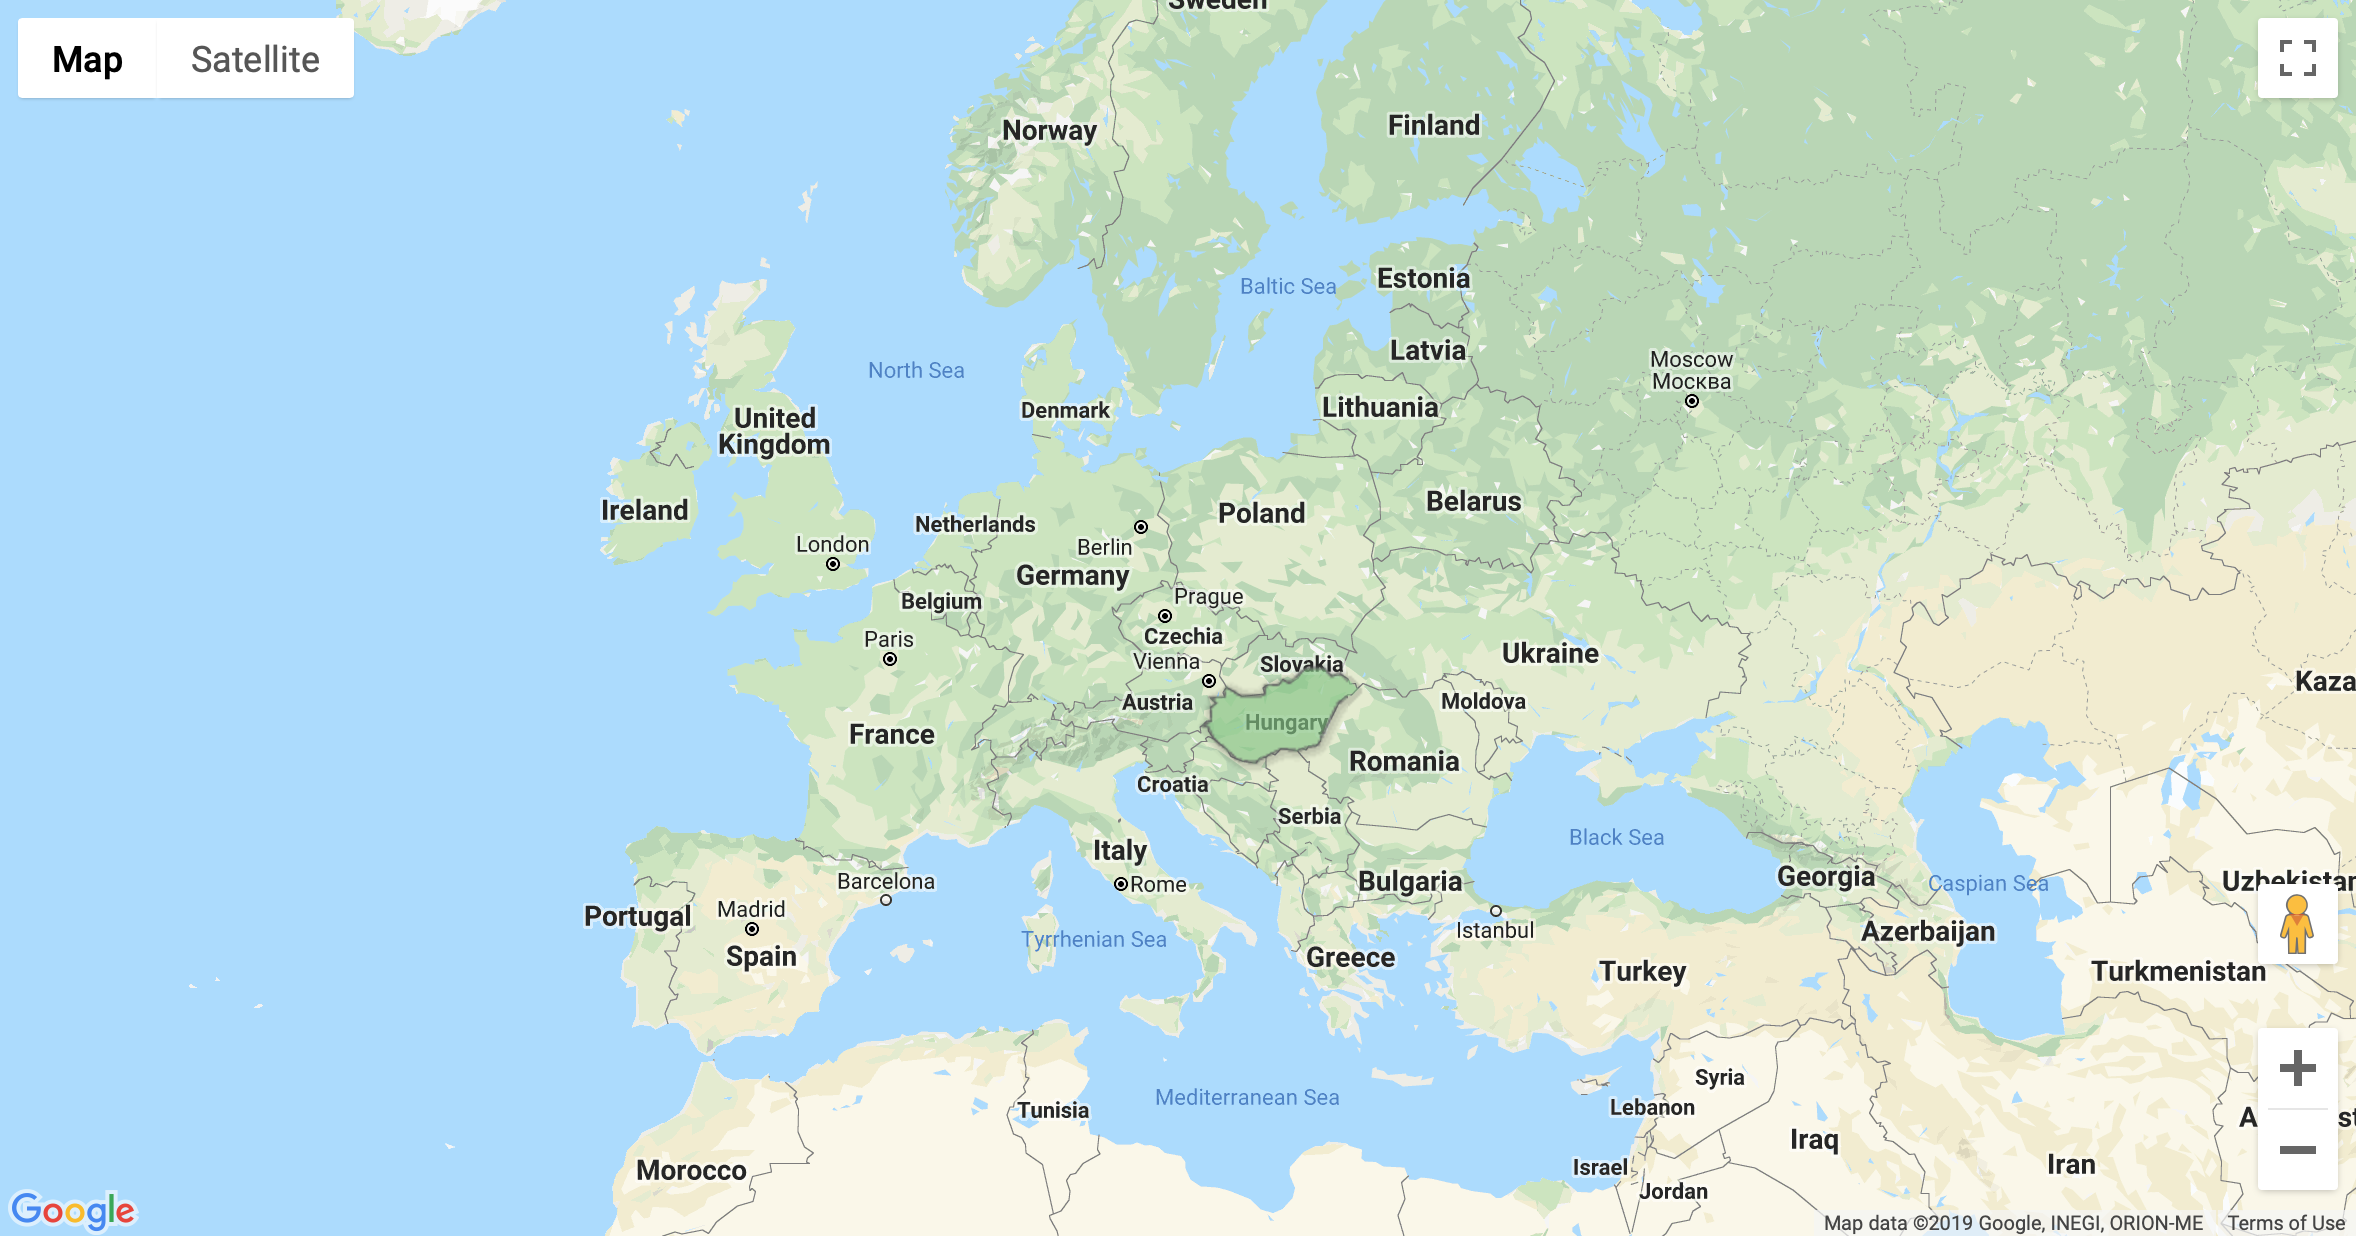
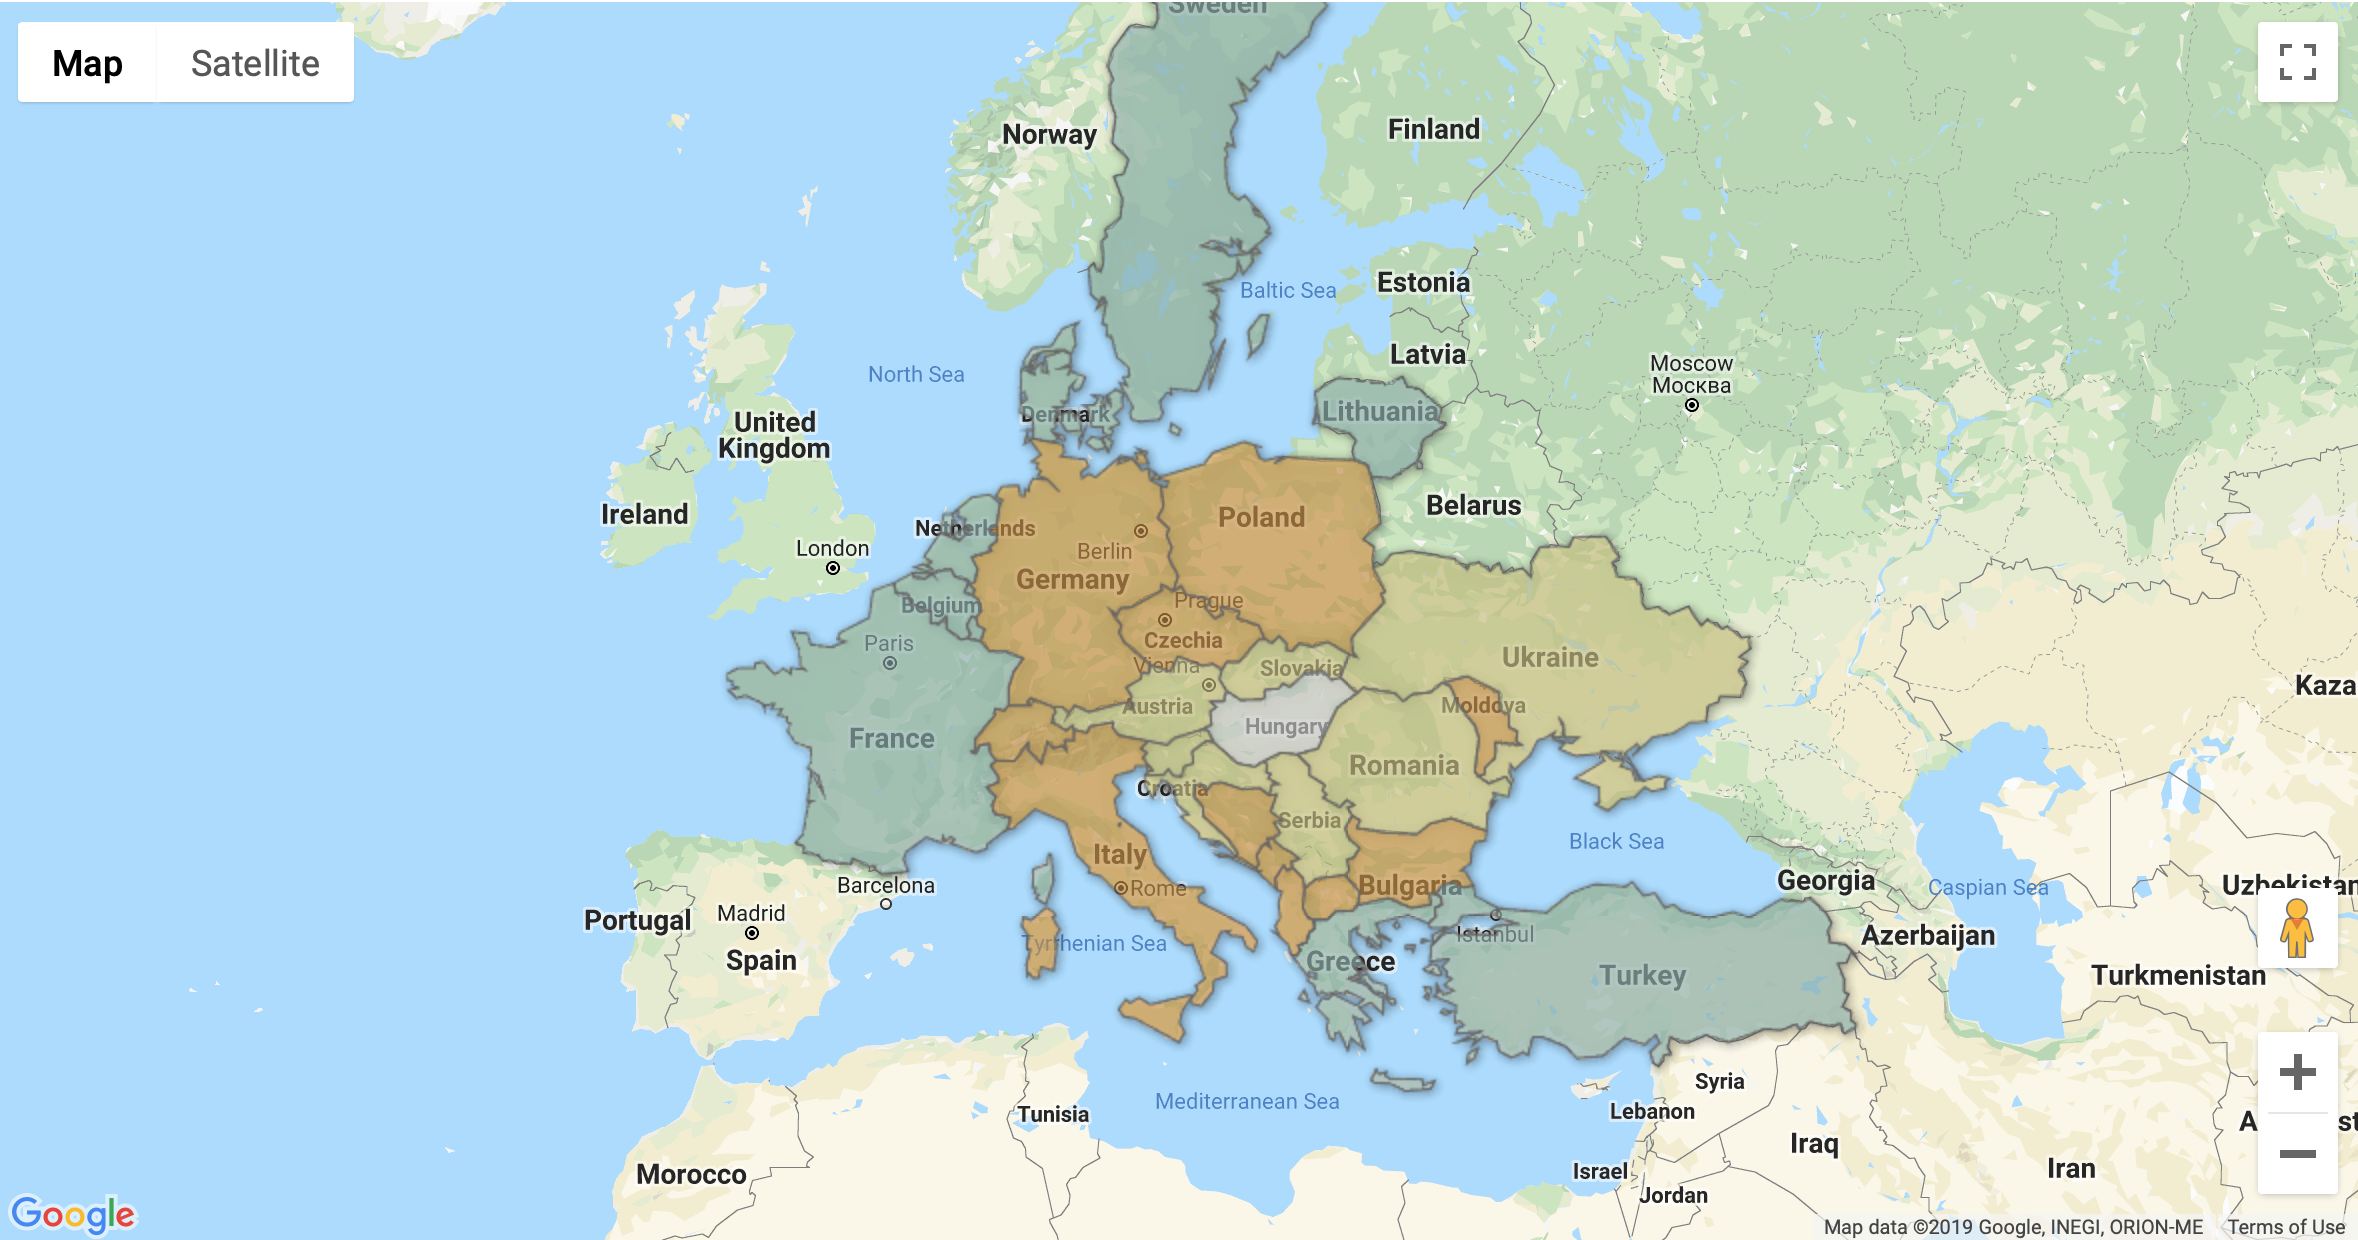
Update main HTML with 3 levels of countries

diff --git a/local/GMapsAPI-FTLayer-Countries-L0123.html b/local/GMapsAPI-FTLayer-Countries-L0123.html
@@ -15,13 +15,47 @@
       query: {
         select: 'geometry',
         from: '1N2LBk4JHwWpOY4d9fobIn27lfnZ5MDy-NoqqRpk',
-        where: "ISO_2DIGIT IN ('HU')"
+        where: "ISO_2DIGIT IN ('HU',\
+          'AT','HR','RO','RS','SK','SI','UA',\
+          'AL','BA','BG','CZ','DE','IT','MK','MD','ME','PL','CH',\
+          'BE','DK','FR','GR','LT','LU','MC','NL','SE','TR'\
+        )"
       },
       styles: [{
-        // level 0
+        // level 0 - home country
         where: "ISO_2DIGIT IN ('HU')",
         polygonOptions: {
-          fillColor: "#aaffaa"
+          fillColor: "#ffffff" // white
+        }
+      }, {
+        // level 1 - direct neighbours
+        where: "ISO_2DIGIT IN ('AT','HR','RO','RS','SK','SI','UA')",
+        polygonOptions: {
+          fillColor: "#fff59d" // material design colors - yellow
+        }
+      }, {
+        // level 2 - 2nd neighbours
+        where: "ISO_2DIGIT IN ('AL','BA','BG','CZ','DE','IT','MK','MD','ME','PL','CH')",
+        polygonOptions: {
+          fillColor: "#ffb74d" // material design colors - orange
+        }
+      }, {
+        // level 3 - 3rd neighbours
+        where: "ISO_2DIGIT IN ('BE','DK','FR','GR','LT','LU','MC','NL','SE','TR')",
+        polygonOptions: {
+          fillColor: "#b2dfdb" // material design colors - teal
+        }
+      }, {
+        // level ? - undecided
+        where: "ISO_2DIGIT IN ('')",
+        polygonOptions: {
+          fillColor: "#78909c" // material design colors - gray
+        }
+      }, {
+        // level x - no-go countries
+        where: "ISO_2DIGIT IN ('')",
+        polygonOptions: {
+          fillColor: "#f44336" // material design colors - red
         }
       }]
     });
